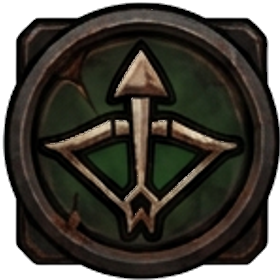
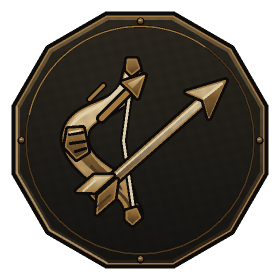
art: 确认实装107–110并补齐42职业图最终总览

diff --git a/CLAUDE.md b/CLAUDE.md
@@ -12,6 +12,14 @@
 4. **分支纪律**：以当轮指定基线新建任务分支，完成后只 push 新分支；本轮基线为 `workspace1005@487027ae`，任务分支为 `feat1005/class-advancement-icons-20261006`，**绝不推送到任何 `workspace` 系列或原基线分支**。用户本轮已授权创建目标为 `workspace1005` 的 PR，不自动合并或发布。
 5. **持续推进与交接**：已授权范围不擅自放弃；每次完成先如实简报，再真正调用 `AskUserQuestion` 给 2–4 个下一步选项。尊重用户后续停止指令、权限拒绝和安全边界；凭据不写入源码、Git 配置、日志或记忆。
 
+## 上次做了什么（2026-10-06，42职业图全部确认实装）
+
+- 用户最新明确“push了吗？push下确定使用全部”：已核验上一轮审核材料e082b56e在远端；第一批9c4f2741精修/6f71e06c交接完成释放后，本轮只将已推候选107–110四PNG安装到原正式路径，原meta不动，其他38图保持。42图均为新版本，280RGBA、透明残色0、114外共用底板0差异，无重复；50保护路径（42meta/两配置/六角标）相对487027ae不变。
+- 扩现有第三批专项first=true与-first-icons-only，一转ReviewEcho/Mask、其他Batch绘图，正式PNG逐像素绑定当前源码；原二转断言完整保留，不修改生成器历史审核禁止-install保护。四图专项118/0且exit0；第一/二批本轮复跑565/0、337/0且exit0，成长1697/0及觉醒成长ALL PASS/exit0。联合14图与按职业7图曾托管等待超时并截断，不计通过，不用四图118替代完整联合覆盖。
+- 实际四确认页＋两职业树各150绘制帧、File/action0、Lua/资源0、缺图0，均已读截图；六raw FAIL仅默认100ms软件尖峰（3/3/6/5/2/2），不称设备性能/触控通过。临时视觉入口/meta归档移除后最终官方b14成功，545Lua均来自根scripts，42图＋14绘图Lua＋专项57/57实际载荷字节一致，审核与临时入口0入包；单文件LSP空items不称全仓静态覆盖。
+- 原01-overview-42.png已更新为2160×2360最终正式总览，包含第一批精修和四实装图，原meta不变；其余四审核拼图保留历史快照，不冒称最新。规范36单测实际通过；只白名单提交四PNG/专项/最终总览/三交接，不夹其他会话审核副本、内部母图截图日志、.project或无关meta。实际提交/push后另记SHA，不提前声称上传。
+- **持续强化：不擅自取消、退出或放弃已授权任务；通常完成或真正需用户决策时先如实简报，再实际AskUserQuestion给2–4选项。当前最新恢复明确直接继续、不再提问，本次遵循，不机械问询。** 尊重停止/权限拒绝/安全边界，仅正常push当前任务分支，不推workspace系列、不强推、不自动合并发布，凭据不落源码/配置/日志/记忆。
+
 ## 上次做了什么（2026-10-06，第一批十图精修）
 
 - **精修已正常推送并核验：** 16文件功能提交9c4f2741d4a3698a950602663fc3d14a856927e1已push到feat1005/class-advancement-icons-20261006，实际PUSH_EXIT=0，ls-remote同名分支与本地SHA一致；十正式PNG、两主体Lua、现有专项及三交接包含。推送后13载荷对应资源/源码与HEAD字节一致、190保护指纹不变；未推基线、未合并发布。两精修对照图仅本地展示，不声称其已上传。

diff --git a/memory/WORKFLOW_RULES.md b/memory/WORKFLOW_RULES.md
@@ -9,6 +9,14 @@
 - 暂存最终2881路径，20旧规范问题与固定基线逐项相同、警告0/新增0；规范36单测本轮托管完整exit0，首轮同步等待timeout不算通过。16白名单index字节与工作区一致，13载荷/两套回归冻结SHA一致，不混本地审核/构建身份。
 - **再次强化：不擅自取消、退出或放弃已授权任务；通常完成或真正需用户选择时先如实简报，再实际AskUserQuestion给2–4选项。当前恢复明确直接继续、不再提问，本次遵循最新指令，不机械问询、不无限扩大安装/远端授权。** 尊重停止指令、权限拒绝与安全边界；同伴消息不等于本用户授权，不代装/代推其他会话工作，不写入凭据。
 
+## 42职业图确认使用全部（2026-10-06，最新授权）
+
+- 用户明确“push了吗？push下确定使用全部”，授权安装并正常push107–110已推四候选；只复制PNG到正式路径，原正式meta不复制候选UUID。第一批9c4f2741精修/6f71e06c交接后接手窗口，不改其十PNG/两主体/专项。当前42正式全部新版本，原42meta/两配置/六角标50指纹保持；旧审核未安装记载只属历史阶段。
+- 现有第三批专项补first行/阶段分流和-first-icons-only，正式PNG对当前Review/Batch源码逐像素绑定，原二转校验完整保留，历史审核禁止-install不改。四图118/0且exit0，第一批565/0、第二批337/0及成长1697/0/觉醒成长ALL PASS有真实exit0；14图/7图联合等待超时且日志截断不计通过。独立只读42RGBA/外圈/透明残色/无重复/四分支主体检查无确认阻塞。
+- 四确认页及两树各150实际绘制帧、File/action0、Lua/资源0、缺图0；已读六截图，raw FAIL只含3/3/6/5/2/2软件帧尖峰，不宣称设备性能/触控全过。临时入口/meta归档移除后官方最终b14成功，545Lua均根scripts；42PNG＋14绘图Lua＋本专项57载荷字节一致，审核/临时0入包，LSP单文件空items不代全仓守卫。
+- 只更新原01-overview-42.png为最终实装总览及保留meta；其余四审核拼图保留历史状态。规范36单测过，仅四正式PNG/专项/总览/三交接提交推送，结果须成功核验后记录，内部证据/.project/其他会话审核/玩家档/凭据不混入。
+- **再次强化：持续推进已授权任务，不擅自取消、退出或放弃；通常完成或确需用户决策先真实简报再实际AskUserQuestion选项。当前最新恢复明确直接继续、不再提问，本次遵循，不机械问询。** 尊重停止指令、权限拒绝、安全边界，只正常push任务分支，不推workspace系列、不强推、不自动合并发布，凭据不写源码、Git配置、日志或记忆。
+
 ## 职业图第三批实装交接（2026-10-06）
 
 - 本批23文件205e96b43fb4abdf3889ae876961c6dfab28ad00已实际正常push，PUSH_EXIT=0、ls-remote同名分支与本地SHA一致，十PNG五Lua五meta及三交接均包含；不推基线、不合并发布。最终暂存2863路径规范20旧问题与固定基线逐项相同、新增0，36校验单测全过。额外托管最终专项完整日志再次336/0；前一截断timeout不算通过，工具等待timeout不被冒称进程exit0。共享窗口交第一批精修/整合本地审核，不混入其他会话新增记录。

diff --git a/docs/memory-index.md b/docs/memory-index.md
@@ -1,5 +1,13 @@
 # memory-index — 《终焉之门》改造完整交接文档
 
+## 42职业图全部确认实装（2026-10-06）
+
+- 用户最新明确“push了吗？push下确定使用全部”，本轮接手已完成第一批9c4f2741精修/6f71e06c交接后，仅把已推四候选107–110复制到正式原路径，保留原meta，其他38图不动。正式42全部新图，280RGBA/透明残色0/半径114外0差异/42无重复；42meta＋两配置＋六角标50保护指纹相对487027ae不变。历史38新＋4旧仅是之前审核状态，不再是当前安装事实。
+- 现有第三批专项扩四first行与-first-icons-only；一转Review、其他Batch统一几何/重绘源，原二转断言完整保留，不改历史-first-review禁止-install。四正式图源码像素绑定118/0、exit0；本轮第一批565/0、第二批337/0、成长1697/0、觉醒成长ALL PASS都有exit0。完整14与职业7图托管等待超时且日志截断，不计通过，不将118称完整联合回归。
+- 四确认＋两职业树各150绘制帧，实际Read六图，Lua/资源0、缺图0、File/action0；raw FAIL仅软件尖峰3/3/6/5/2/2，不称手机/性能/触控通过。临时入口/meta移除后最终官方b14成功，545Lua根scripts，正式42PNG/14绘图Lua/本专项57份载荷字节一致，临时/审核0入包；逐文件LSP空items不等于全仓覆盖。
+- 更新原01-overview-42.png为2160×2360最终实装总览，保留原meta；其他四拼图是历史审核快照。规范36单测通过；仅四正式PNG/现有专项/最终总览/三交接白名单提交，实际推送后补SHA，.project/未跟踪审核副本/内部母图日志截图/无关meta不提交。
+- 持续强化不擅自取消退出，通常交接简报后真实AskUserQuestion选项；本次最新恢复要求不再提问、直接继续，按当前指令不机械问询，不扩大推基线/强推/合并发布授权，凭据不写源码/配置/日志/记忆。
+
 ## 第一批职业图精修（2026-10-06，封门人＋司仪）
 
 - 16文件功能提交9c4f2741d4a3698a950602663fc3d14a856927e1已实际正常push同名任务分支，PUSH_EXIT=0、ls-remote核验一致；十PNG/两主体Lua/现有专项/三交接均包含。提交后13实际载荷对应资源与HEAD逐字节一致、190保护指纹保持；不推基线、不合并发布。两精修对照仅本地展示，不称已上传。
